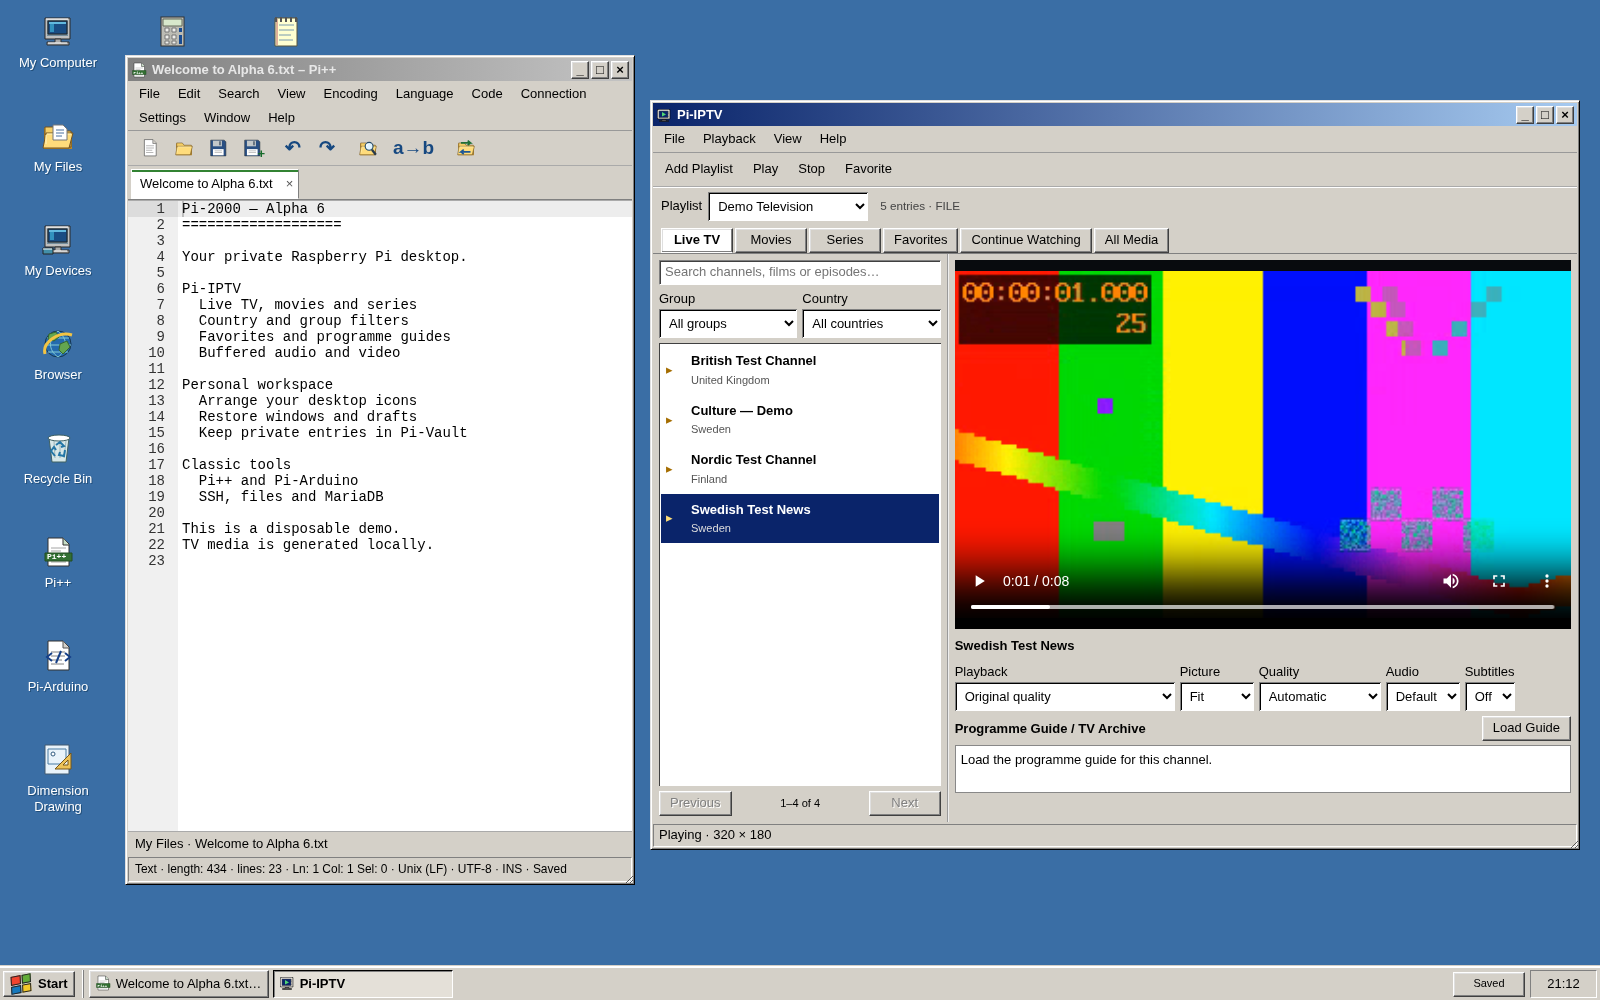
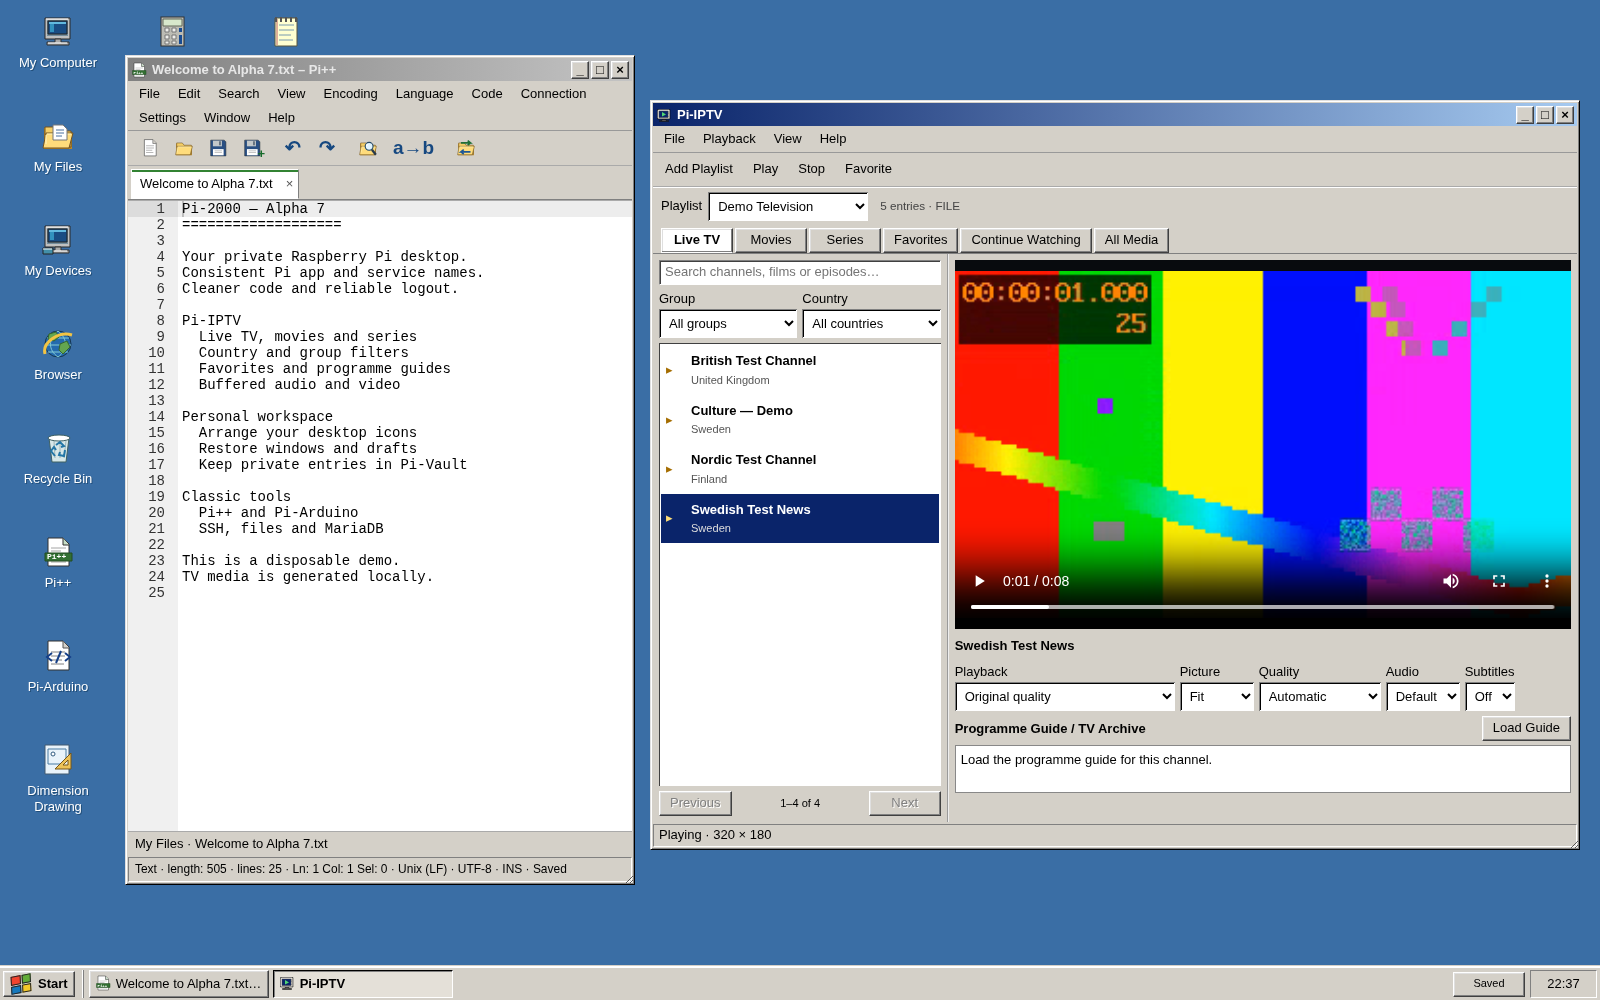
Release Pi-2000 Alpha 7

Changed region(s): [[0.0938, 0.248, 0.2812, 0.589]]

diff --git a/scripts/build-deb.py b/scripts/build-deb.py
@@ -17,14 +17,17 @@ def run(*args,**kw):subprocess.run(list(map(str,args)),check=True,**kw)
 
 def runtime(name,requirements,wheels,work):
     cache=work/name
-    fingerprint=hashlib.sha256(requirements.read_bytes()).hexdigest()
+    installed='/opt/pi2000-admin/venv' if name=='api' else '/opt/pi2000-browser/venv'
+    # Cached console scripts contain absolute installed paths. A namespace or
+    # interpreter change must rebuild them even when dependencies are unchanged.
+    identity=f'{installed}\n{sys.version}\n{os.uname().machine}\n'.encode()
+    fingerprint=hashlib.sha256(identity+requirements.read_bytes()).hexdigest()
     if not (cache/'ready').exists() or (cache/'ready').read_text()!=fingerprint:
         shutil.rmtree(cache,ignore_errors=True);cache.mkdir(parents=True)
         run(sys.executable,'-m','venv','--without-pip',cache/'venv')
         run(ROOT/'.venv/bin/python','-m','pip','--python',cache/'venv/bin/python','install','--no-index','--find-links',wheels,'-r',requirements)
         run(ROOT/'.venv/bin/python','-m','pip','--python',cache/'venv/bin/python','check')
         # Console scripts must refer to the installed location, not the builder.
-        installed='/opt/pi2000-admin/venv' if name=='api' else '/opt/pi2000-browser/venv'
         for path in (cache/'venv/bin').iterdir():
             if path.is_symlink():continue
             if path.name.startswith('activate') or path.name=='Activate.ps1':path.unlink();continue
@@ -37,7 +40,8 @@ def runtime(name,requirements,wheels,work):
 
 
 def main():
-    p=argparse.ArgumentParser();p.add_argument('--version',default='0.1.0~alpha.6-1');a=p.parse_args()
+    default_version=(ROOT/'VERSION').read_text().strip().replace('-', '~', 1)+'-1'
+    p=argparse.ArgumentParser();p.add_argument('--version',default=default_version);a=p.parse_args()
     if os.uname().machine!='aarch64' or sys.version_info[:2]!=(3,13):p.error('Build on arm64 with Python 3.13.')
     run('dpkg','--validate-version',a.version)
     work=ROOT/'.deb-build';work.mkdir(exist_ok=True)
@@ -74,7 +78,7 @@ def main():
     for name in ('README.md',):copy(ROOT/name,'/usr/share/doc/pi2000web/'+name)
     copy(ROOT/'docs/DEB-INSTALLATION.md','/usr/share/doc/pi2000web/DEB-INSTALLATION.md')
     copy(ROOT/'docs/SYSTEM-ACCOUNTS.md','/usr/share/doc/pi2000web/SYSTEM-ACCOUNTS.md')
-    for name in ('RECOVERY.md','MAINTENANCE.md','TESTING.md','VAULT.md','DESKTOP.md','IPTV.md','SECURITY.md'):
+    for name in ('RECOVERY.md','MAINTENANCE.md','TESTING.md','VAULT.md','DESKTOP.md','IPTV.md','SECURITY.md','SYSTEM-NAMES.md','CODE-CLEANUP.md'):
         copy(ROOT/'docs'/name,'/usr/share/doc/pi2000web/'+name)
     control=stage/'DEBIAN';control.mkdir()
     size=sum(f.stat().st_size for f in stage.rglob('*') if f.is_file())//1024

diff --git a/README.md b/README.md
@@ -8,26 +8,27 @@ This is an independent project, not a Microsoft product and not a Windows emulat
 
 ## Versions
 
-Current numbered release: **[0.1.0-alpha.6](https://github.com/xhonken/Pi-2000/releases/tag/v0.1.0-alpha.6)**. See [all releases](https://github.com/xhonken/Pi-2000/releases), the [changelog](CHANGELOG.md), and [versioning instructions](docs/VERSIONING.md) for previous versions, release downloads and installing a specific version. Run `./scripts/version.sh` to identify your source checkout.
+Current numbered release: **[0.1.0-alpha.7](https://github.com/xhonken/Pi-2000/releases/tag/v0.1.0-alpha.7)**. See [all releases](https://github.com/xhonken/Pi-2000/releases), the [changelog](CHANGELOG.md), and [versioning instructions](docs/VERSIONING.md) for previous versions, release downloads and installing a specific version. Run `./scripts/version.sh` to identify your source checkout.
 
-## New in Alpha 6
+## New in Alpha 7
 
-- **Pi-IPTV:** private M3U/Xtream sources, country/group filters, live TV,
-  movies, series, programme guides and provider archives. Buffered playback,
-  automatic quality and isolated compatibility conversion improve usability.
-- **Pi-Vault:** client-encrypted private entries, separate list/content passphrases,
-  automatic locking, recovery and encrypted import/export.
-- **Personal desktop and recovery:** choose and arrange app icons, use context
-  menus and multiple selection, and recover supported windows and unsaved drafts.
-- **Security and maintenance:** stronger file/account boundaries, Pi-Vault key
-  rotation, request limits, Browser version checks, guarded backup/recovery and
-  visibility into installed versus running worker builds.
-- **Test installer:** a new arm64 `.deb` with these additions and the existing
-  Pi++, Pi-Arduino, PAM identities and desktop applications.
+- **Consistent names:** Pi-2000, Pi-IPTV, Pi-Vault, Pi-Arduino, Pi-Calt,
+  Pi-DB Manager, Pi-API and Pi-Git Projects throughout the interface.
+- **System naming:** `pi2000-*` services, process names and installation paths,
+  with a guarded source-install migration that preserves numeric ownership.
+- **Reliable logout:** workspace conflicts and failed recovery no longer trap
+  users in a session; saved checkpoints and application cancellation remain safe.
+- **Code cleanup:** removed the obsolete gallery, replaced icon code, unused
+  imports/state and redundant ZIP/health work. Classic SVG appearance is preserved.
+- **Test installer:** a new arm64 `.deb` for fresh installations, with the existing
+  IPTV, Vault, personal desktop, recovery and development applications.
 
-Read the [Alpha 6 release notes](docs/releases/0.1.0-alpha.6.md).
-**Fresh installation on a reimaged Pi 4 and physical power-loss/recovery acceptance
-remain pending.** This is a prerelease intended for testing.
+Read the [Alpha 7 release notes](docs/releases/0.1.0-alpha.7.md).
+**Existing source installations with `win2k-*` names must use the
+[system-name migration](docs/SYSTEM-NAMES.md) before updating. Direct upgrades from
+Alpha 6 or older Debian packages are blocked pending a validated package migration.**
+Fresh installation of this exact package on a reimaged Pi 4 and physical
+power-loss/recovery acceptance remain pending. This is a testing prerelease.
 
 ## Pi-IPTV
 
@@ -114,7 +115,7 @@ process is gone. See [desktop recovery and its limits](docs/DESKTOP.md#restore-a
 
 ## Install on Raspberry Pi
 
-The Alpha 6 test release includes an arm64 `.deb` and SHA-256 checksum. It contains
+The Alpha 7 test release includes an arm64 `.deb` and SHA-256 checksum. It contains
 prebuilt Python runtimes and uses APT for system dependencies. See the
 **[Debian package guide](docs/DEB-INSTALLATION.md)** for Raspberry Pi OS 64-bit
 (Debian 13), first login and upgrades. Earlier package candidates passed physical
@@ -141,7 +142,7 @@ Read the complete **[Raspberry Pi installation guide](docs/INSTALLATION.md)**, i
 See **[Examples](Examples/README.md)** for named network configurations, complete Caddy examples, certificate export, installation/update scripts and backup maintenance examples.
 
 ```sh
-# Later, from your checkout:
+# After system-name migration, from your source checkout:
 git pull --ff-only
 sudo ./scripts/update.sh
 sudo ./scripts/doctor.sh
@@ -149,9 +150,9 @@ sudo ./scripts/doctor.sh
 
 Updates use `/etc/pi2000web/config.toml`. Normal updates preserve running SSH/Browser sessions. Finish active database work first: the updater restarts the API, and database sessions and transactions are not resumed. Reload the desktop after updating. Changing the HTTPS origin requires `--restart-sessions`, which ends live jobs.
 
-Configuration, generated Caddy settings, backend tests and the existing-installation upgrade path are verified. The Debian package also has physical Pi 4 installation and post-reboot functional coverage; see its guide for the tested scope.
+Configuration, generated Caddy settings, backend tests and the source-installation migration/update path are verified. Earlier Debian package candidates have physical Pi 4 coverage; this exact Alpha 7 package still needs a fresh physical installation test.
 
-Internal service names, environment variables, JavaScript namespaces and storage paths retain the legacy `win2k` identifier for compatibility. The product name is **Pi-2000**. The source checkout can be named or located differently; no local username or network address is required in source code.
+Services and installation paths use `pi2000-*`. Environment variables, JavaScript namespaces and stored protocol identifiers retain legacy names for compatibility; migrated source installations also retain required directory links. The product name is **Pi-2000**. The source checkout can be named or located differently; no local username or network address is required in source code.
 
 ## Browser and resource limits
 

diff --git a/docs/releases/0.1.0-alpha.7.md b/docs/releases/0.1.0-alpha.7.md
@@ -1,0 +1,93 @@
+# Pi-2000 0.1.0-alpha.7
+
+Alpha 7 consolidates Pi-2000 naming, fixes logout failures and removes obsolete
+code. The Python/aiohttp and plain JavaScript desktop, private user data and
+Windows 2000-inspired appearance remain the foundation.
+
+## Changes
+
+- **Consistent application names:** Pi-2000, Pi-IPTV, Pi-Vault, Pi-Arduino,
+  Pi-Calt, Pi-DB Manager, Pi-API and Pi-Git Projects. Familiar Windows-style
+  names and personal icon labels remain unchanged.
+- **System names:** `pi2000-*` services, account/group and process names, with
+  canonical installation paths. The guarded source migration creates verified
+  backups, preserves numeric ownership and rolls back caught activation errors.
+  It checks running jobs and waits for API readiness before verification.
+- **Logout:** workspace save conflicts and failed recovery no longer prevent
+  an explicit sign-out. Saved checkpoints and application cancellation guards
+  remain in place.
+- **Cleanup:** removed 31 superseded reference-gallery files, obsolete pixel
+  drawings, unused imports/state and an unused development dependency. Demo-only
+  JavaScript is no longer installed in the public desktop. ZIP export avoids an
+  unused full file-table read; My Activities stops making unused health requests.
+  Icon generation now reproduces the current SVG assets, including Pi++/Pi-Vault.
+- **Packaging and checks:** cached Python runtimes are rebuilt when installation
+  paths or the interpreter change, so console scripts use the new namespace.
+  The package version follows VERSION. CI sandbox and dynamic editor-mode checks
+  include the fixes made after Alpha 6.
+
+Pi-IPTV, Pi-Vault, workspace recovery, personal desktop controls, development
+applications, PAM identities and private SSH connections remain included.
+See the [cleanup review](https://github.com/xhonken/Pi-2000/blob/v0.1.0-alpha.7/docs/CODE-CLEANUP.md).
+
+## Download and installation
+
+Target: **Raspberry Pi OS 64-bit / Debian 13 (Trixie), arm64, Python 3.13**.
+Debian 12, 32-bit systems and Intel/AMD package installation are not supported.
+
+Download `pi2000web_0.1.0.alpha.7-1_arm64.deb` and `SHA256SUMS` from this release.
+The internal Debian version is `0.1.0~alpha.7-1`; GitHub normalizes the filename.
+For a fresh installation:
+
+```sh
+sha256sum --check SHA256SUMS
+sudo apt install ./pi2000web_0.1.0.alpha.7-1_arm64.deb
+sudo pi2000web doctor
+```
+
+The installer asks for a creator account/password and retains individual Linux
+identities, private homes and PAM authentication. See the
+[package guide](https://github.com/xhonken/Pi-2000/blob/v0.1.0-alpha.7/docs/DEB-INSTALLATION.md).
+
+### Existing installations: read before upgrading
+
+- **Source installation with old `win2k-*` names:** use the
+  [system-name migration](https://github.com/xhonken/Pi-2000/blob/v0.1.0-alpha.7/docs/SYSTEM-NAMES.md).
+  Save work and plan a service interruption. The migration preserves data and
+  UID/GID, but cannot preserve running OS processes. Old directory links remain
+  where existing virtual environments need compatibility.
+- **Already migrated source installation:** use the source updater and doctor.
+  Activate updated session/Arduino workers only after their jobs finish, following
+  the [maintenance guide](https://github.com/xhonken/Pi-2000/blob/v0.1.0-alpha.7/docs/MAINTENANCE.md).
+- **Alpha 6 or older Debian package with old names:** direct upgrade is blocked
+  before unpacking. A package-managed namespace migration has not been validated.
+  Do not bypass the guard, remove the package-management marker or use the source
+  migrator on a dpkg-managed installation. This Alpha 7 package targets fresh
+  installations; it is not an in-place migration for older packages.
+
+Do not downgrade against newer live data or mix source and package management.
+
+## Validation and remaining limits
+
+The cleanup and namespace changes passed **194 backend tests, 27 ordinary browser
+suites and 2 geometry suites**. The final IPTV stability suite ran separately
+following an interrupted long local test run: a simulated 2.5-second network
+outage produced zero stalls and zero catch-up seeks. Icon computed styles remained
+identical, and the standalone demo still works after moving its script.
+
+Installed Pi 5 validation covered the guarded migration, HTTPS, PAM, Local Terminal,
+password-change revocation, backup, logout and four-account file/Vault/ZIP privacy.
+The package is checked for metadata, build identity, deployment hashes, new-path
+console scripts and checksums. The screenshot uses disposable accounts and
+locally generated media.
+
+**Fresh installation of this exact package on a reimaged Pi 4 remains pending.**
+Installed Pi 5 source checks and earlier package tests do not replace that check.
+Physical power-loss recovery and independent security/crypto review remain open.
+Workspace checkpoints restore supported windows/drafts, not running OS processes.
+
+The Browser app remains paused when installed Chromium is below the reviewed
+security floor of **153.0.8010.52**. This does not disable Pi-IPTV in the client
+browser and does not certify newer engines against future vulnerabilities.
+Provider availability, bandwidth, codecs and archive support still constrain IPTV.
+See the [security boundaries](https://github.com/xhonken/Pi-2000/blob/v0.1.0-alpha.7/docs/SECURITY.md).

diff --git a/docs/DEB-INSTALLATION.md b/docs/DEB-INSTALLATION.md
@@ -5,14 +5,20 @@ The package includes pinned Python runtimes for the desktop and Browser. APT
 installs native dependencies; no pip download or compilation occurs on the Pi.
 32-bit Raspberry Pi OS and Debian 12 are not supported by this build.
 
+**Alpha 7 uses new `pi2000-*` system names. This package is for fresh installations.
+Direct upgrades from Alpha 6 or older packages using `win2k-*` paths are blocked
+before unpacking; a package-managed namespace migration has not been validated.
+Do not remove the guard or package-management marker. Source installations use the
+separate [system-name migration](SYSTEM-NAMES.md), not this package.**
+
 Download the `.deb` and `SHA256SUMS` from the
-[Alpha 6 test release](https://github.com/xhonken/Pi-2000/releases/tag/v0.1.0-alpha.6)
+[Alpha 7 test release](https://github.com/xhonken/Pi-2000/releases/tag/v0.1.0-alpha.7)
 into the same directory. GitHub changes `~` to `.` in the asset filename; the
-internal Debian version remains `0.1.0~alpha.6-1`.
+internal Debian version remains `0.1.0~alpha.7-1`.
 
 ```sh
 sha256sum --check SHA256SUMS
-sudo apt install ./pi2000web_0.1.0.alpha.6-1_arm64.deb
+sudo apt install ./pi2000web_0.1.0.alpha.7-1_arm64.deb
 sudo pi2000web doctor
 ```
 
@@ -37,7 +43,8 @@ pinned local host keys. Managed users cannot log in through the host SSH listene
 An existing Linux identity is linked only by an explicit OS administrator command;
 its password and permissions are preserved. See [system accounts](SYSTEM-ACCOUNTS.md).
 
-Upgrades preserve users and the creator. Legacy users migrate at their next login.
+Supported upgrades within the new namespace preserve users and the creator.
+The older-package restriction above takes precedence.
 Fresh setup requires local MariaDB OS-root socket authentication; it never changes
 MariaDB's root authentication. Unattended fresh installs preseed both admin-password
 fields and `pi2000web/creator-username` through a protected input stream.
@@ -60,7 +67,8 @@ sample service is disabled, while its configuration file is retained. A custom
 existing Caddy service is not overwritten. phpMyAdmin sees the gateway config
 through a read-only service mount; the distribution's configuration is retained.
 
-Upgrade with `sudo apt install ./NEW-PACKAGE.deb`. A verified local backup is
+For supported upgrades within the new namespace, use
+`sudo apt install ./NEW-PACKAGE.deb`. A verified local backup is
 required by the upgrade script before files are replaced. Finish database operations
 first: the API and PHP runtime restart. SSH/Browser worker sessions are preserved;
 use `sudo pi2000web restart-sessions` after finishing jobs to activate new worker
@@ -81,12 +89,13 @@ python3 scripts/build-deb.py
 The output `.deb` and SHA-256 file are under `build/packages/`. Local project notes,
 credentials, runtime databases and machine configuration are never package inputs.
 
-## Alpha 6 test package status
+## Alpha 7 test package status
 
-The release package `0.1.0~alpha.6-1` includes Pi-IPTV, Pi-Vault, desktop/workspace recovery, security hardening,
+The release package `0.1.0~alpha.7-1` adds consistent application/system naming,
+logout fixes and code cleanup. It retains Pi-IPTV, Pi-Vault, desktop/workspace recovery, security hardening,
 maintenance tools, Pi-Arduino, Pi++ and the graphical utility tools,
 alongside PAM authentication and per-user Linux identities. It is built from the
-Alpha 6 source release and checked for content, build identity and checksums.
+Alpha 7 source release and checked for content, build identity and checksums.
 **Fresh installation of this package on a reimaged Pi 4 is still pending.** The
 applications were tested on the existing Pi 5 installation; the earlier physical
 Pi 4 results below predate the final PAM account migration and these additions.

diff --git a/docs/design/english-and-branding.md b/docs/design/english-and-branding.md
@@ -4,7 +4,7 @@ The maintained desktop UI, application dialogs, accessible names, status/error m
 
 File and Edit menu mnemonics changed to Alt+F and Alt+E. Menu definitions and their underlying toolbar commands were updated together. Generated ZIP, SVG and CSV download names and CSV headings use English. Locale formatting uses en-GB.
 
-Compatibility identifiers remain unchanged: installed `win2k` paths/services, `WIN2K_*` configuration, browser profiles, cookies, stored account/document keys and JavaScript namespaces. No data migration or user-content translation is performed. The original upstream gallery was subsequently removed during cleanup. Its historical files remain in Git history and its provenance in `docs/source-manifest.json`.
+At the branding-only stage, compatibility identifiers remained unchanged: installed `win2k` paths/services, `WIN2K_*` configuration, browser profiles, cookies, stored account/document keys and JavaScript namespaces. No data migration or user-content translation is performed. The original upstream gallery was subsequently removed during cleanup. Its historical files remain in Git history and its provenance in `docs/source-manifest.json`.
 
 ## 2026-09-18 product names
 
@@ -27,3 +27,6 @@ encryption format remain stable for existing installations and exports.
 The current session worker was deliberately not restarted. Already-running Chromium sessions retain their previous language until ended and relaunched; worker-held older error messages are replaced on the next scheduled worker restart. Such a restart ends its live jobs and must be planned accordingly.
 
 Screenshots: [production login](../screenshots/login.png), [English Start menu](../screenshots/desktop.png).
+
+Alpha 7 subsequently migrates system services and paths to `pi2000-*`; see
+[SYSTEM-NAMES.md](../SYSTEM-NAMES.md). Protocol identifiers and user data remain compatible.

diff --git a/CHANGELOG.md b/CHANGELOG.md
@@ -4,6 +4,15 @@ User-visible changes are recorded here for each numbered release. Development be
 
 ## Unreleased
 
+No changes yet.
+
+## 0.1.0-alpha.7 — 2026-09-18
+
+- Rebuild cached Debian runtimes when installation paths or Python change, so
+  packaged console scripts use the current namespace. Derive the default package
+  version from VERSION. Alpha 7 packages target fresh installations; upgrades
+  from packages with legacy system names are blocked pending package migration.
+
 - Remove the superseded reference gallery, obsolete pixel-icon drawings, unused
   imports/state and an unused development dependency. Keep standalone demo code
   outside the deployed desktop. Avoid an unused full file-table read during ZIP

diff --git a/docs/HELP.md b/docs/HELP.md
@@ -1,8 +1,9 @@
 # Pi-2000 User Guide
 
-Alpha 6 adds Pi-IPTV, Pi-Vault, personal desktop controls, workspace recovery,
-security hardening and maintenance tools. See the [release notes](releases/0.1.0-alpha.6.md)
-for the test installer and remaining acceptance checks.
+Alpha 7 standardizes Pi-2000 application and service names, fixes blocked logout,
+and removes unused code while retaining the classic desktop and private data.
+See the [release notes](releases/0.1.0-alpha.7.md) for installation and migration
+requirements. IPTV, Vault, personal desktop controls and workspace recovery remain included.
 
 ## Getting started
 

diff --git a/docs/INSTALLATION.md b/docs/INSTALLATION.md
@@ -116,7 +116,12 @@ Open your configured `public_url` and log in as **`admin`**. Change the password
 
 ## Updates and network changes
 
-From the checkout:
+**Alpha 7 namespace migration:** if the existing installation still uses
+`win2k-admin` / `win2k-sessions`, follow [SYSTEM-NAMES.md](SYSTEM-NAMES.md)
+first. The updater refuses an unmigrated installation. This source migration
+requires a planned service interruption and does not support dpkg-managed hosts.
+
+From an already migrated source checkout:
 
 ```sh
 git pull --ff-only
